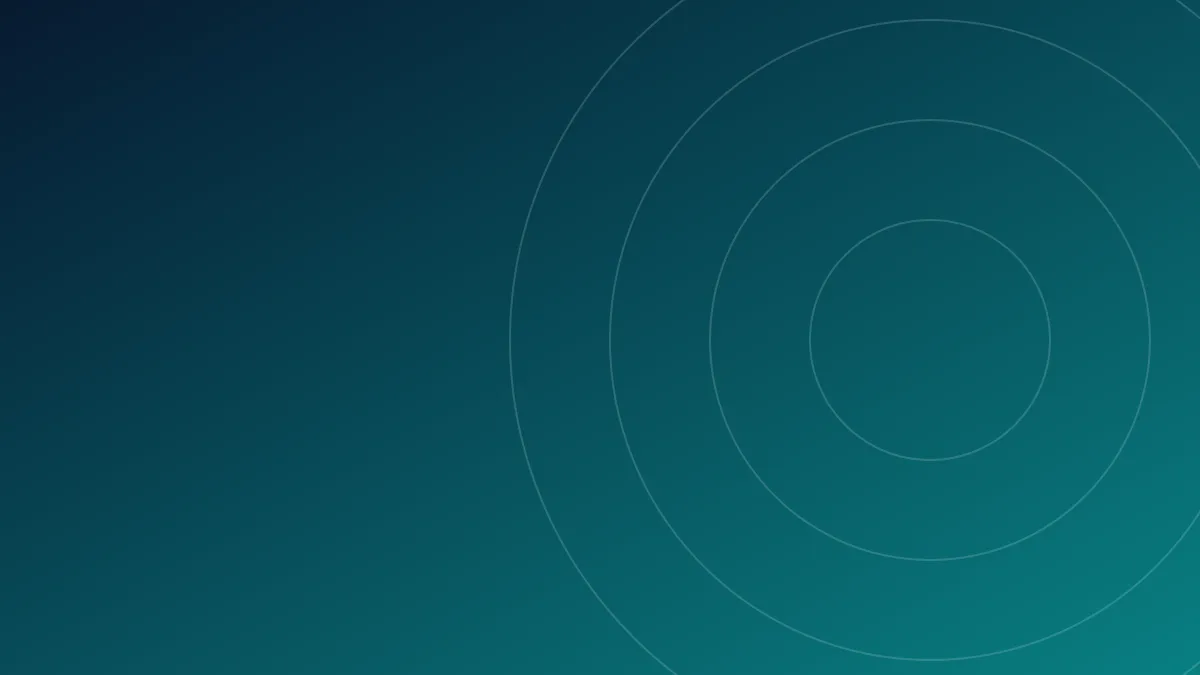
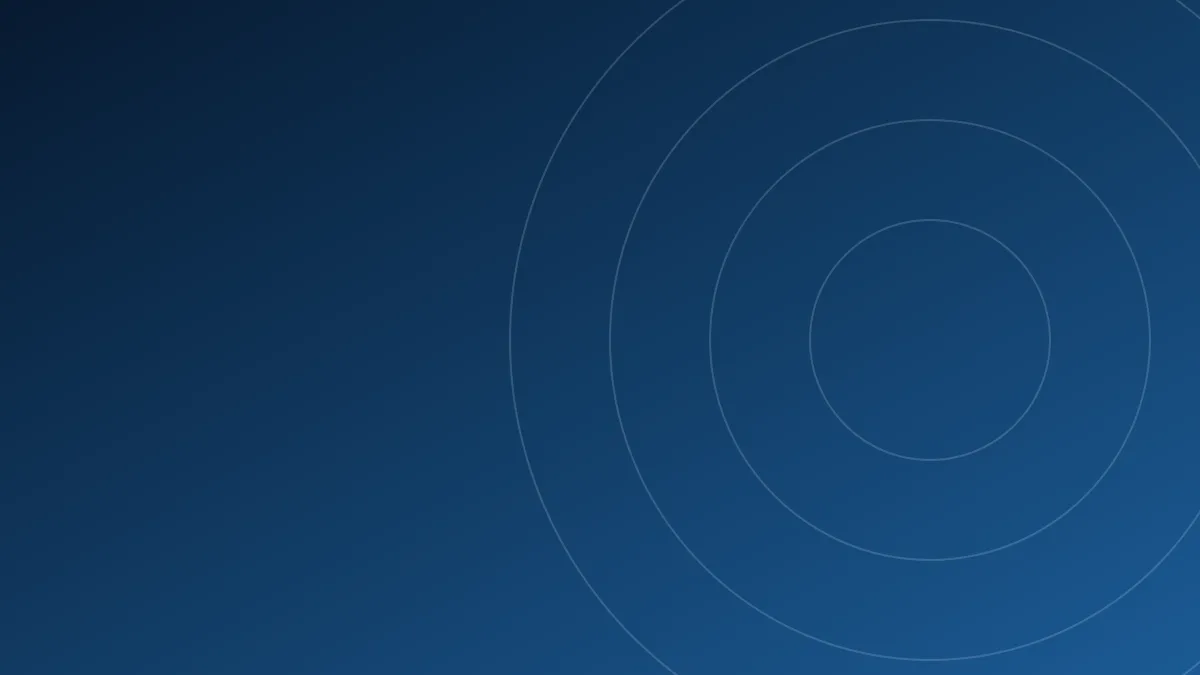
Add Home to header and restrict theme to navy and blue
Add Home as the first menu item. Replace the teal, gold and status colors
with navy, light blue and white tokens, and regenerate the social preview
and blog cover images to match.

Changed region(s): [[0.3083, 0.2178, 1.0, 1.0], [0.4317, 0.7467, 0.4625, 0.7778], [0.2467, 0.9956, 0.2775, 1.0]]

diff --git a/app/globals.css b/app/globals.css
@@ -10,27 +10,25 @@
   --color-navy: #0a2440;
   --color-navy-deep: #071a30;
   --color-navy-soft: #163958;
-  --color-teal: #077477;
-  --color-teal-bright: #13a5a1;
-  --color-teal-light: #85d9d4;
-  --color-teal-pale: #c5eeea;
-  --color-teal-soft: #d9f1ef;
-  --color-sky: #eaf5f8;
-  --color-blue-soft: #d8eaf2;
+  --color-blue: #1a5f9e;
+  --color-blue-bright: #4fa3e3;
+  --color-blue-light: #a9d4f5;
+  --color-blue-pale: #dcebf8;
+  --color-blue-soft: #cfe3f5;
+  --color-sky: #edf5fc;
   --color-white: #ffffff;
-  --color-paper: #f7fafc;
+  --color-paper: #f7fafd;
   --color-ink: #122a42;
-  --color-muted: #4f6478;
-  --color-line: #d8e3e9;
-  --color-gold: #c89b48;
-  --color-success: #1f6b4e;
-  --color-success-soft: #e5f4ed;
-  --color-warning: #8a5a00;
-  --color-warning-soft: #fbf1dc;
-  --color-danger: #a4262c;
-  --color-danger-soft: #fbe9ea;
-  --color-focus: #9a6700;
-  --color-focus-on-dark: #dfab46;
+  --color-muted: #4a6178;
+  --color-line: #d6e2ec;
+  --color-success: #14558f;
+  --color-success-soft: #dcebf8;
+  --color-warning: #163958;
+  --color-warning-soft: #eaf1f8;
+  --color-danger: #0a2440;
+  --color-danger-soft: #d6e6f5;
+  --color-focus: #0a2440;
+  --color-focus-on-dark: #a9d4f5;
 
   --font-*: initial;
   --font-display: var(--font-manrope), ui-sans-serif, system-ui, sans-serif;
@@ -59,9 +57,9 @@
   --header-height: 80px;
   --ease: 180ms ease;
   --gradient-hero:
-    radial-gradient(ellipse at 84% 12%, rgb(19 165 161 / 18%), transparent 42%),
+    radial-gradient(ellipse at 84% 12%, rgb(79 163 227 / 20%), transparent 42%),
     linear-gradient(160deg, var(--color-navy-deep), var(--color-navy) 70%);
-  --gradient-brand: linear-gradient(115deg, var(--color-navy) 0%, #0b5c68 100%);
+  --gradient-brand: linear-gradient(115deg, var(--color-navy) 0%, #1b5a94 100%);
   --on-dark-muted: rgb(255 255 255 / 78%);
   --on-dark-line: rgb(255 255 255 / 18%);
   --focus-ring: var(--color-focus);
@@ -92,7 +90,7 @@
   }
 
   ::selection {
-    background: var(--color-teal-soft);
+    background: var(--color-blue-pale);
     color: var(--color-navy-deep);
   }
 
@@ -159,7 +157,7 @@
   }
 
   .eyebrow {
-    color: var(--color-teal);
+    color: var(--color-blue);
     font-size: 0.78rem;
     font-weight: 800;
     letter-spacing: 0.14em;
@@ -169,7 +167,7 @@
 
   .tone-dark .eyebrow,
   .tone-brand .eyebrow {
-    color: var(--color-teal-light);
+    color: var(--color-blue-light);
   }
 
   .heading-hero {
@@ -238,7 +236,7 @@
   }
 
   .btn-primary {
-    background: var(--color-teal);
+    background: var(--color-blue);
     color: var(--color-white);
   }
 
@@ -253,7 +251,7 @@
   }
 
   .btn-light:hover:not(:disabled) {
-    background: var(--color-teal-soft);
+    background: var(--color-blue-pale);
   }
 
   .btn-outline {
@@ -274,8 +272,8 @@
   }
 
   .btn-secondary:hover:not(:disabled) {
-    border-color: var(--color-teal);
-    color: var(--color-teal);
+    border-color: var(--color-blue);
+    color: var(--color-blue);
   }
 
   .btn-ghost {
@@ -285,7 +283,7 @@
 
   .btn-ghost:hover:not(:disabled) {
     background: var(--color-sky);
-    color: var(--color-teal);
+    color: var(--color-blue);
   }
 
   .card {
@@ -302,7 +300,7 @@
   .card-hover:hover,
   .card-hover:focus-within {
     transform: translateY(-3px);
-    border-color: var(--color-teal-light);
+    border-color: var(--color-blue-light);
     box-shadow: var(--shadow-lift);
   }
 
@@ -314,8 +312,8 @@
     align-items: center;
     justify-content: center;
     border-radius: var(--radius-button);
-    background: var(--color-teal-soft);
-    color: var(--color-teal);
+    background: var(--color-blue-pale);
+    color: var(--color-blue);
   }
 
   .site-header {
@@ -341,7 +339,7 @@
 
   .nav-link:hover,
   .nav-link[aria-current="page"] {
-    color: var(--color-teal);
+    color: var(--color-blue);
   }
 
   .nav-link[aria-current="page"]::after {
@@ -351,7 +349,7 @@
     left: 0.7rem;
     height: 2px;
     border-radius: var(--radius-pill);
-    background: var(--color-teal-bright);
+    background: var(--color-blue-bright);
     content: "";
   }
 
@@ -371,8 +369,8 @@
   }
 
   .mobile-link[aria-current="page"] {
-    background: var(--color-teal-soft);
-    color: var(--color-teal);
+    background: var(--color-blue-pale);
+    color: var(--color-blue);
   }
 
   .footer-link {
@@ -388,7 +386,7 @@
     display: inline-flex;
     align-items: center;
     gap: 0.35rem;
-    color: var(--color-teal);
+    color: var(--color-blue);
     font-weight: 700;
     transition: color var(--ease);
   }
@@ -412,14 +410,14 @@
   }
 
   .chip:hover {
-    border-color: var(--color-teal);
-    color: var(--color-teal);
+    border-color: var(--color-blue);
+    color: var(--color-blue);
   }
 
   .chip[aria-pressed="true"],
   .chip[aria-current="page"] {
-    border-color: var(--color-teal);
-    background: var(--color-teal);
+    border-color: var(--color-blue);
+    background: var(--color-blue);
     color: var(--color-white);
   }
 
@@ -444,11 +442,13 @@
   }
 
   .field-input:hover {
-    border-color: var(--color-teal);
+    border-color: var(--color-blue);
   }
 
+  /* Errors stay in the navy palette, so a heavier border marks them instead of red. */
   .field-input[aria-invalid="true"] {
     border-color: var(--color-danger);
+    box-shadow: inset 0 0 0 1px var(--color-danger);
   }
 
   .field-error {
@@ -511,13 +511,13 @@
   }
 
   .prose-content a {
-    color: var(--color-teal);
+    color: var(--color-blue);
     font-weight: 600;
     text-decoration: underline;
   }
 
   .prose-content blockquote {
-    border-left: 3px solid var(--color-teal-bright);
+    border-left: 3px solid var(--color-blue-bright);
     padding-left: 1rem;
     color: var(--color-muted);
   }
@@ -564,8 +564,8 @@
   }
 
   .mock-pill-info {
-    background: var(--color-teal-soft);
-    color: var(--color-teal);
+    background: var(--color-blue-pale);
+    color: var(--color-blue);
   }
 
   .mock-pill-waiting {

diff --git a/components/visuals/Visual.tsx b/components/visuals/Visual.tsx
@@ -10,7 +10,7 @@ function Pill({ status, children }: { status: MockStatus; children: string }) {
 
 function Avatar({ initials }: { initials: string }) {
   return (
-    <span className="flex h-8 w-8 shrink-0 items-center justify-center rounded-pill bg-teal-soft text-[0.65rem] font-extrabold text-teal">
+    <span className="flex h-8 w-8 shrink-0 items-center justify-center rounded-pill bg-blue-pale text-[0.65rem] font-extrabold text-blue">
       {initials}
     </span>
   );
@@ -61,7 +61,7 @@ function Dashboard({ data }: { data: Mockups["dashboard"] }) {
                 {data.bars.map((height, index) => (
                   <span
                     key={index}
-                    className={`flex-1 rounded-t-[3px] ${index === 5 || index === 10 ? "bg-teal" : "bg-blue-soft"}`}
+                    className={`flex-1 rounded-t-[3px] ${index === 5 || index === 10 ? "bg-blue" : "bg-blue-soft"}`}
                     style={{ height: `${height}%` }}
                   />
                 ))}
@@ -135,7 +135,7 @@ function Kiosk({ data }: { data: Mockups["kiosk"] }) {
               <div
                 key={action}
                 className={`rounded-small px-2 py-2.5 text-xs font-bold ${
-                  index === 0 ? "bg-teal text-white" : "bg-sky text-navy"
+                  index === 0 ? "bg-blue text-white" : "bg-sky text-navy"
                 }`}
               >
                 {action}
@@ -173,7 +173,7 @@ function Approvals({ data }: { data: Mockups["approvals"] }) {
         {data.acknowledged}
       </p>
       <div className="mt-4 grid grid-cols-2 gap-2 text-center text-sm font-bold">
-        <span className="rounded-small bg-teal px-3 py-2.5 text-white">{data.approve}</span>
+        <span className="rounded-small bg-blue px-3 py-2.5 text-white">{data.approve}</span>
         <span className="rounded-small border border-line px-3 py-2.5 text-navy">{data.decline}</span>
       </div>
     </div>
@@ -200,7 +200,7 @@ function MultiSite({ data }: { data: Mockups["multiSite"] }) {
               </span>
             </div>
             <div className="mt-1.5 h-2 overflow-hidden rounded-pill bg-blue-soft">
-              <div className="h-full rounded-pill bg-teal" style={{ width: `${site.load}%` }} />
+              <div className="h-full rounded-pill bg-blue" style={{ width: `${site.load}%` }} />
             </div>
           </li>
         ))}

diff --git a/components/sections/SectionRenderer.tsx b/components/sections/SectionRenderer.tsx
@@ -63,7 +63,7 @@ function Body({ section }: { section: SectionData }) {
           {section.items.map((item) => (
             <div key={item.label} className="card reveal p-6 text-center">
               <dt className="sr-only">{item.label}</dt>
-              <dd className="font-display text-3xl font-extrabold text-teal">{item.value}</dd>
+              <dd className="font-display text-3xl font-extrabold text-blue">{item.value}</dd>
               <dd className="mt-1 text-muted">{item.label}</dd>
             </div>
           ))}
@@ -95,7 +95,7 @@ function Body({ section }: { section: SectionData }) {
                 <Icon name={step.icon} />
               </span>
               <div>
-                <p className="text-xs font-extrabold tracking-wider text-teal">{String(index + 1).padStart(2, "0")}</p>
+                <p className="text-xs font-extrabold tracking-wider text-blue">{String(index + 1).padStart(2, "0")}</p>
                 <h3 className="heading-card text-navy">{step.title}</h3>
                 <p className="mt-1 text-sm leading-6 text-muted">{step.description}</p>
               </div>
@@ -196,7 +196,7 @@ function Body({ section }: { section: SectionData }) {
             <details key={item.question} className="group py-5">
               <summary className="flex list-none items-center justify-between gap-5 rounded-small font-display font-bold text-navy [&::-webkit-details-marker]:hidden">
                 {item.question}
-                <span aria-hidden="true" className="text-xl font-normal text-teal transition-transform group-open:rotate-45">
+                <span aria-hidden="true" className="text-xl font-normal text-blue transition-transform group-open:rotate-45">
                   +
                 </span>
               </summary>

diff --git a/components/blog/PostCard.tsx b/components/blog/PostCard.tsx
@@ -31,7 +31,7 @@ export default function PostCard({ post, headingLevel: Heading = "h3" }: { post:
       <div className="flex flex-1 flex-col p-6">
         <p className="eyebrow">{getCategory(post.category)?.name}</p>
         <Heading className="heading-card mt-3 text-navy">
-          <Link href={`/blog/${post.slug}`} className="transition-colors hover:text-teal">
+          <Link href={`/blog/${post.slug}`} className="transition-colors hover:text-blue">
             {post.title}
           </Link>
         </Heading>

diff --git a/components/sections/Split.tsx b/components/sections/Split.tsx
@@ -65,7 +65,7 @@ export function SplitRow(props: SplitRowProps) {
             {stats.map((stat) => (
               <div key={stat.label}>
                 <dt className="sr-only">{stat.label}</dt>
-                <dd className="font-display text-2xl font-extrabold text-teal">{stat.value}</dd>
+                <dd className="font-display text-2xl font-extrabold text-blue">{stat.value}</dd>
                 <dd className="mt-1 text-sm leading-5 text-muted">{stat.label}</dd>
               </div>
             ))}

diff --git a/components/sections/Cards.tsx b/components/sections/Cards.tsx
@@ -12,7 +12,7 @@ export function CheckList({ items, className = "" }: { items: string[]; classNam
     <ul className={`space-y-2 ${className}`}>
       {items.map((item) => (
         <li key={item} className="flex items-start gap-2 text-sm text-ink">
-          <Icon name="check" className="mt-0.5 h-4 w-4 shrink-0 text-teal" />
+          <Icon name="check" className="mt-0.5 h-4 w-4 shrink-0 text-blue" />
           {item}
         </li>
       ))}

diff --git a/components/ui/PageHero.tsx b/components/ui/PageHero.tsx
@@ -57,7 +57,7 @@ export default function PageHero({
           ) : null}
           {proofLine ? (
             <p className="mt-7 flex items-center gap-2 text-sm font-semibold text-white">
-              <span aria-hidden="true" className="h-2 w-2 rounded-pill bg-teal-bright" />
+              <span aria-hidden="true" className="h-2 w-2 rounded-pill bg-blue-bright" />
               {proofLine}
             </p>
           ) : null}

diff --git a/content/blog/visitor-management-checklist.md b/content/blog/visitor-management-checklist.md
@@ -5,7 +5,7 @@ date: 2026-10-12
 status: published
 summary: "A thoughtful visitor program starts well before a guest reaches the reception desk."
 coverImage: /images/blog/visitor-experience-checklist.webp
-coverAlt: "Abstract navy and teal cover graphic with concentric circles"
+coverAlt: "Abstract navy and blue cover graphic with concentric circles"
 category: visitor-experience
 author: acevisitor-editorial
 seo:

diff --git a/content/blog/multi-site-visitor-operations.md b/content/blog/multi-site-visitor-operations.md
@@ -5,7 +5,7 @@ date: 2026-08-26
 status: published
 summary: "Enterprise visitor programs work best when shared standards leave room for site realities."
 coverImage: /images/blog/multi-site-operations.webp
-coverAlt: "Abstract teal cover graphic with a grid of outlined tiles"
+coverAlt: "Abstract blue cover graphic with a grid of outlined tiles"
 category: multi-site-programs
 author: acevisitor-editorial
 seo:
